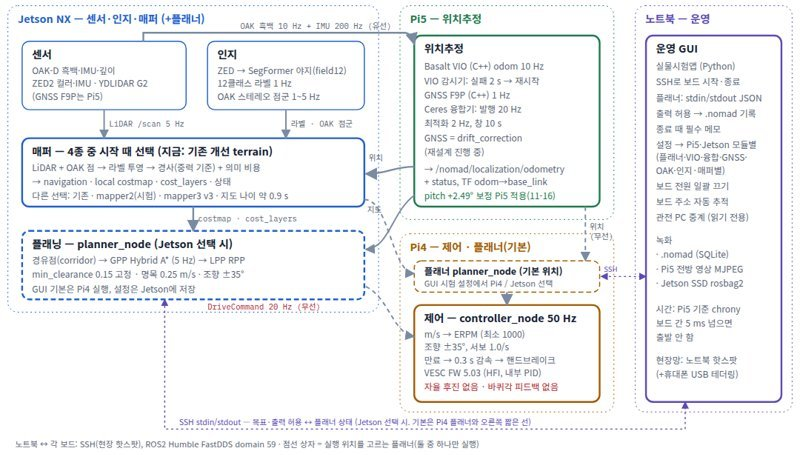
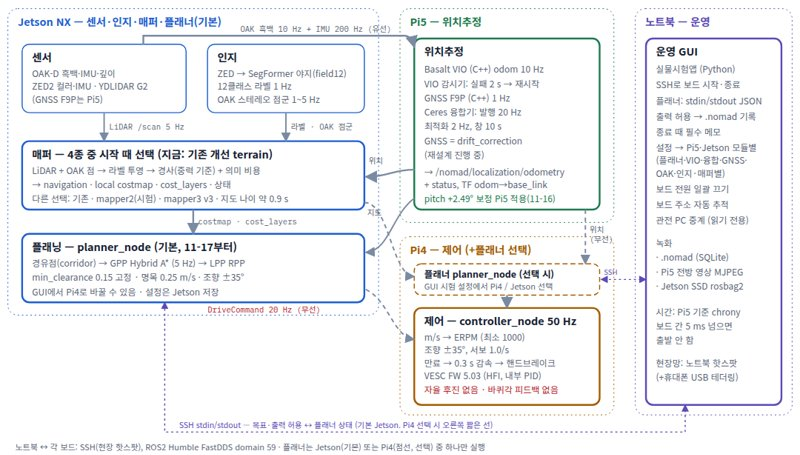
System: planner default location is Jetson from 11-17 (Pi4 selectable); roadmap step 2 done

Changed region(s): [[0.0, 0.0, 1.0, 1.0], [0.7812, 0.0308, 1.0, 0.4923]]

diff --git a/system/overview.html b/system/overview.html
@@ -83,7 +83,7 @@ footer{font-size:.8rem;color:var(--muted)}
 <div class="wrap"><p style="margin:0;font-size:.85rem"><a href="../index.html">홈</a> › <a href="index.html">시스템 구조</a> › 전체 구조</p>
 <header>
   <h1>NOMAD 전체 시스템 구조</h1>
-  <p class="sub">센서 → 위치추정(VIO + 융합기) → 인지 → 매퍼(4종 중 선택, 지금 기존 개선 terrain) → 플래닝(기본 Pi4, Jetson 선택 가능) → 제어(Pi4 VESC), 그리고 노트북 GUI·기록까지 한 장에 정리했다. 2026-11-17 기준, 작업 기록·공유폴더 코드·설정 사본에서 확인한 내용이며, 확인하지 못한 것은 <span class="chip todo">미확인</span>, 짐작은 <span class="chip keep">추정</span>으로 표시했다.</p>
+  <p class="sub">센서 → 위치추정(VIO + 융합기) → 인지 → 매퍼(4종 중 선택, 지금 기존 개선 terrain) → 플래닝(기본 Jetson 11-17부터, Pi4 선택 가능) → 제어(Pi4 VESC), 그리고 노트북 GUI·기록까지 한 장에 정리했다. 2026-11-17 기준, 작업 기록·공유폴더 코드·설정 사본에서 확인한 내용이며, 확인하지 못한 것은 <span class="chip todo">미확인</span>, 짐작은 <span class="chip keep">추정</span>으로 표시했다.</p>
   <div class="chips">
     <span class="chip drill"><span class="dot" style="background:var(--jet)"></span>Jetson</span>
     <span class="chip ok"><span class="dot" style="background:var(--pi5)"></span>Pi5</span>
@@ -104,11 +104,11 @@ footer{font-size:.8rem;color:var(--muted)}
     <marker id="arl" viewBox="0 0 10 10" refX="9" refY="5" markerWidth="7" markerHeight="7" orient="auto-start-reverse"><path d="M0,0 L10,5 L0,10 z" fill="var(--lap)"/></marker></defs>
     <!-- 보드 영역 -->
     <rect x="10" y="10" width="520" height="430" rx="14" fill="none" stroke="var(--jet)" stroke-dasharray="2 4"/>
-    <text x="24" y="34" fill="var(--jet)" font-weight="700" font-size="15">Jetson NX — 센서·인지·매퍼 (+플래너)</text>
+    <text x="24" y="34" fill="var(--jet)" font-weight="700" font-size="15">Jetson NX — 센서·인지·매퍼·플래너(기본)</text>
     <rect x="560" y="10" width="300" height="300" rx="14" fill="none" stroke="var(--pi5)" stroke-dasharray="2 4"/>
     <text x="574" y="34" fill="var(--pi5)" font-weight="700" font-size="15">Pi5 — 위치추정</text>
     <rect x="560" y="330" width="300" height="250" rx="14" fill="none" stroke="var(--pi4)" stroke-dasharray="2 4"/>
-    <text x="574" y="354" fill="var(--pi4)" font-weight="700" font-size="15">Pi4 — 제어 · 플래너(기본)</text>
+    <text x="574" y="354" fill="var(--pi4)" font-weight="700" font-size="15">Pi4 — 제어 (+플래너 선택)</text>
     <rect x="890" y="10" width="220" height="570" rx="14" fill="none" stroke="var(--lap)" stroke-dasharray="2 4"/>
     <text x="904" y="34" fill="var(--lap)" font-weight="700" font-size="15">노트북 — 운영</text>
 
@@ -119,12 +119,12 @@ footer{font-size:.8rem;color:var(--muted)}
       <text x="304" y="84" font-size="15" fill="var(--ink)" font-weight="700">인지</text><text x="304" y="106" font-size="12.5" fill="var(--muted)">ZED → SegFormer 야지(field12)</text><text x="304" y="124" font-size="12.5" fill="var(--muted)">12클래스 라벨 1 Hz</text><text x="304" y="142" font-size="12.5" fill="var(--muted)">OAK 스테레오 점군 1~5 Hz</text></g>
     <g class="blk" data-part="map" tabindex="0" role="button" aria-label="매퍼"><rect x="30" y="196" width="480" height="96" rx="10" fill="var(--sheet)" stroke="var(--jet)" stroke-width="2.5"/>
       <text x="44" y="220" font-size="15" fill="var(--ink)" font-weight="700">매퍼 — 4종 중 시작 때 선택 (지금: 기존 개선 terrain)</text><text x="44" y="242" font-size="12.5" fill="var(--muted)">LiDAR + OAK 점 → 라벨 투영 → 경사(중력 기준) + 의미 비용</text><text x="44" y="262" font-size="12.5" fill="var(--muted)">→ navigation · local costmap · cost_layers · 상태</text><text x="44" y="282" font-size="12.5" fill="var(--muted)">다른 선택: 기존 · mapper2(시험) · mapper3 v3 · 지도 나이 약 0.9 s</text></g>
-    <g class="blk" data-part="plan" tabindex="0" role="button" aria-label="플래닝"><rect x="30" y="326" width="480" height="96" rx="10" fill="var(--sheet)" stroke="var(--jet)" stroke-width="2.5" stroke-dasharray="7 4"/>
-      <text x="44" y="350" font-size="15" fill="var(--ink)" font-weight="700">플래닝 — planner_node (Jetson 선택 시)</text><text x="44" y="372" font-size="12.5" fill="var(--muted)">경유점(corridor) → GPP Hybrid A* (5 Hz) → LPP RPP</text><text x="44" y="392" font-size="12.5" fill="var(--muted)">min_clearance 0.15 고정 · 명목 0.25 m/s · 조향 ±35°</text><text x="44" y="412" font-size="12.5" fill="var(--muted)">GUI 기본은 Pi4 실행, 설정은 Jetson에 저장</text></g>
+    <g class="blk" data-part="plan" tabindex="0" role="button" aria-label="플래닝"><rect x="30" y="326" width="480" height="96" rx="10" fill="var(--sheet)" stroke="var(--jet)" stroke-width="2.5"/>
+      <text x="44" y="350" font-size="15" fill="var(--ink)" font-weight="700">플래닝 — planner_node (기본, 11-17부터)</text><text x="44" y="372" font-size="12.5" fill="var(--muted)">경유점(corridor) → GPP Hybrid A* (5 Hz) → LPP RPP</text><text x="44" y="392" font-size="12.5" fill="var(--muted)">min_clearance 0.15 고정 · 명목 0.25 m/s · 조향 ±35°</text><text x="44" y="412" font-size="12.5" fill="var(--muted)">GUI에서 Pi4로 바꿀 수 있음 · 설정은 Jetson 저장</text></g>
     <g class="blk" data-part="loc" tabindex="0" role="button" aria-label="위치추정"><rect x="580" y="52" width="260" height="240" rx="10" fill="var(--sheet)" stroke="var(--pi5)" stroke-width="2.5"/>
       <text x="594" y="76" font-size="15" fill="var(--ink)" font-weight="700">위치추정</text><text x="594" y="100" font-size="12.5" fill="var(--muted)">Basalt VIO (C++) odom 10 Hz</text><text x="594" y="120" font-size="12.5" fill="var(--muted)">VIO 감시기: 실패 2 s → 재시작</text><text x="594" y="140" font-size="12.5" fill="var(--muted)">GNSS F9P (C++) 1 Hz</text><text x="594" y="160" font-size="12.5" fill="var(--muted)">Ceres 융합기: 발행 20 Hz</text><text x="594" y="180" font-size="12.5" fill="var(--muted)">  최적화 2 Hz, 창 10 s</text><text x="594" y="200" font-size="12.5" fill="var(--muted)">GNSS = drift_correction</text><text x="594" y="220" font-size="12.5" fill="var(--muted)">  (재설계 진행 중)</text><text x="594" y="244" font-size="12.5" fill="var(--muted)">→ /nomad/localization/odometry</text><text x="594" y="262" font-size="12.5" fill="var(--muted)">   + status, TF odom→base_link</text><text x="594" y="282" font-size="12.5" fill="var(--ok)">pitch +2.49° 보정 Pi5 적용(11-16)</text></g>
     <g class="blk" data-part="plan" tabindex="0" role="button" aria-label="플래너 기본 위치"><rect x="580" y="368" width="260" height="44" rx="10" fill="var(--sheet)" stroke="var(--pi4)" stroke-width="1.5" stroke-dasharray="7 4"/>
-      <text x="594" y="388" font-size="13" fill="var(--ink)" font-weight="700">플래너 planner_node (기본 위치)</text><text x="594" y="404" font-size="11.5" fill="var(--muted)">GUI 시험 설정에서 Pi4 / Jetson 선택</text></g>
+      <text x="594" y="388" font-size="13" fill="var(--ink)" font-weight="700">플래너 planner_node (선택 시)</text><text x="594" y="404" font-size="11.5" fill="var(--muted)">GUI 시험 설정에서 Pi4 / Jetson 선택</text></g>
     <g class="blk" data-part="ctrl" tabindex="0" role="button" aria-label="제어"><rect x="580" y="430" width="260" height="136" rx="10" fill="var(--sheet)" stroke="var(--pi4)" stroke-width="2.5"/>
       <text x="594" y="454" font-size="15" fill="var(--ink)" font-weight="700">제어 — controller_node 50 Hz</text><text x="594" y="476" font-size="12.5" fill="var(--muted)">m/s → ERPM (최소 1000)</text><text x="594" y="494" font-size="12.5" fill="var(--muted)">조향 ±35°, 서보 1.0/s</text><text x="594" y="512" font-size="12.5" fill="var(--muted)">만료 → 0.3 s 감속 → 핸드브레이크</text><text x="594" y="530" font-size="12.5" fill="var(--muted)">VESC FW 5.03 (HFI, 내부 PID)</text><text x="594" y="550" font-size="12.5" fill="var(--bad)">자율 후진 없음 · 바퀴각 피드백 없음</text></g>
     <g class="blk" data-part="ops" tabindex="0" role="button" aria-label="운영"><rect x="905" y="52" width="190" height="514" rx="10" fill="var(--sheet)" stroke="var(--lap)" stroke-width="2.5"/>
@@ -143,8 +143,8 @@ footer{font-size:.8rem;color:var(--muted)}
     <path d="M510,282 C545,282 548,384 580,386" stroke="var(--wire)" stroke-width="2" stroke-dasharray="6 5" fill="none" marker-end="url(#ar)"/><text x="514" y="300" font-size="11" fill="var(--muted)" font-family="var(--f-mono)">지도</text>
     <path d="M710,412 L710,430" stroke="var(--wire)" stroke-width="2.5" fill="none" marker-end="url(#ar)"/>
     <path d="M905,390 L842,390" stroke="var(--lap)" stroke-width="1.5" stroke-dasharray="3 4" fill="none" marker-start="url(#arl)" marker-end="url(#arl)"/><text x="846" y="383" font-size="10" fill="var(--lap)">SSH</text>
-    <path d="M960,566 L960,604 L230,604 L230,422" stroke="var(--lap)" stroke-width="1.5" stroke-dasharray="3 4" fill="none" marker-start="url(#arl)" marker-end="url(#arl)"/><text x="250" y="598" font-size="11" fill="var(--lap)">SSH stdin/stdout — 목표·출력 허용 ↔ 플래너 상태 (Jetson 선택 시. 기본은 Pi4 플래너와 오른쪽 짧은 선)</text>
-    <text x="20" y="630" font-size="11.5" fill="var(--muted)">노트북 ↔ 각 보드: SSH(현장 핫스팟), ROS2 Humble FastDDS domain 59 · 점선 상자 = 실행 위치를 고르는 플래너(둘 중 하나만 실행)</text>
+    <path d="M960,566 L960,604 L230,604 L230,422" stroke="var(--lap)" stroke-width="1.5" stroke-dasharray="3 4" fill="none" marker-start="url(#arl)" marker-end="url(#arl)"/><text x="250" y="598" font-size="11" fill="var(--lap)">SSH stdin/stdout — 목표·출력 허용 ↔ 플래너 상태 (기본 Jetson. Pi4 선택 시 오른쪽 짧은 선)</text>
+    <text x="20" y="630" font-size="11.5" fill="var(--muted)">노트북 ↔ 각 보드: SSH(현장 핫스팟), ROS2 Humble FastDDS domain 59 · 플래너는 Jetson(기본) 또는 Pi4(점선, 선택) 중 하나만 실행</text>
   </svg>
   </div>
 </section>
@@ -153,10 +153,10 @@ footer{font-size:.8rem;color:var(--muted)}
 
 <section class="sheet">
   <h2>전체 흐름 한 단락</h2>
-  <p>Jetson의 OAK-D가 흑백 좌우 영상(10 Hz)과 IMU(200 Hz)를 100 Mbps 직결 유선으로 Pi5에 보낸다. Pi5에서는 Basalt VIO(odom 약 10 Hz)와 C++ GNSS(1 Hz)가 돌고, Ceres 융합기(발행 20 Hz, 최적화 2 Hz)가 GNSS를 <b>drift_correction</b> 방식으로 x·y·yaw에만 천천히 반영해 공용 위치를 낸다. Jetson에서는 ZED 영상 → SegFormer 야지 라벨(1 Hz), LiDAR(5 Hz), OAK 스테레오 점군(1~5 Hz)이 <b>개선 매퍼</b>로 모여 경사(중력 기준)와 의미 비용 지도를 만든다(지도 나이 약 0.9 s). <b>플래너</b>(GUI 시험 설정에서 실행 위치 선택: 기본 Pi4, Jetson 선택 가능)가 경유점 → Hybrid A* GPP(5 Hz) → RPP LPP로 경로를 짜 20 Hz DriveCommand를 Pi4 제어기에 보내고(Jetson에서 돌리면 무선으로), Pi4 제어기(50 Hz)가 ERPM(최소 1000)·서보(±35°)로 바꿔 VESC를 움직인다. 노트북 GUI는 SSH로 보드를 켜고 끄며, 받은 상태를 <code>.nomad</code>에 기록한다.</p>
+  <p>Jetson의 OAK-D가 흑백 좌우 영상(10 Hz)과 IMU(200 Hz)를 100 Mbps 직결 유선으로 Pi5에 보낸다. Pi5에서는 Basalt VIO(odom 약 10 Hz)와 C++ GNSS(1 Hz)가 돌고, Ceres 융합기(발행 20 Hz, 최적화 2 Hz)가 GNSS를 <b>drift_correction</b> 방식으로 x·y·yaw에만 천천히 반영해 공용 위치를 낸다. Jetson에서는 ZED 영상 → SegFormer 야지 라벨(1 Hz), LiDAR(5 Hz), OAK 스테레오 점군(1~5 Hz)이 <b>개선 매퍼</b>로 모여 경사(중력 기준)와 의미 비용 지도를 만든다(지도 나이 약 0.9 s). <b>플래너</b>(GUI 시험 설정에서 실행 위치 선택: 11-17부터 기본 Jetson, Pi4 선택 가능)가 경유점 → Hybrid A* GPP(5 Hz) → RPP LPP로 경로를 짜 20 Hz DriveCommand를 Pi4 제어기에 보내고(Jetson에서 돌리면 무선으로), Pi4 제어기(50 Hz)가 ERPM(최소 1000)·서보(±35°)로 바꿔 VESC를 움직인다. 노트북 GUI는 SSH로 보드를 켜고 끄며, 받은 상태를 <code>.nomad</code>에 기록한다.</p>
   <details><summary>이전 페이지와 무엇이 달라졌나</summary>
     <ul>
-      <li>플래너 위치: Pi4 고정 → <b>Pi4/Jetson 선택</b>(GUI 시험 설정, 기본 Pi4). 설정은 Jetson에 저장.</li>
+      <li>플래너 위치: Pi4 고정 → <b>Pi4/Jetson 선택</b>(GUI 시험 설정, 11-17부터 기본 Jetson. 11-16 야지까지는 기본 Pi4). 설정은 Jetson에 저장.</li>
       <li>매퍼: 기존 4프로세스·JSON 전달 → <b>개선 매퍼 단일 프로세스</b>, 경사 기준 진행방향 → 중력.</li>
       <li>위치: GNSS를 창 최적화에 넣던 방식 → <b>drift_correction</b>(1 m당 2 cm만 반영), VIO 감시기 자동 재시작.</li>
       <li>네트워크(11/16): 현장은 <b>노트북 핫스팟</b>에 세 보드가 붙고, 휴대폰 USB 테더링으로 인터넷도 같이 씀(확인).</li>
@@ -170,11 +170,11 @@ footer{font-size:.8rem;color:var(--muted)}
   <h2>앞으로의 목표 (로드맵)</h2>
   <table><tr><th>단계</th><th>내용</th><th>상태</th></tr>
   <tr><td>1</td><td>시험 초기화 버튼</td><td><span class="chip todo">계획(미구현)</span> · 지금은 VIO 재실행·지자계 방향 초기화·제어기 복구만</td></tr>
-  <tr><td>2</td><td>플래너 Jetson 실행 + GUI 파트별 설정</td><td>Jetson 실행 가능·GUI 설정 완료, <b>기본 전환은 미완</b>(기본 Pi4)</td></tr>
+  <tr><td>2</td><td>플래너 Jetson 실행 + GUI 파트별 설정</td><td><span class="chip ok">완료</span> (11-17 기본값 Jetson, Pi4 선택 가능)</td></tr>
   <tr><td>3</td><td>VIO(Pi5) 설정·초기화 GUI</td><td><span class="chip ok">11-16 모듈 세부 설정으로 완료</span></td></tr>
   <tr><td>다음</td><td>VIO + GNSS 융합기 재설계</td><td>진행 중 (시험판 빌드 중)</td></tr>
   <tr><td><b>최종</b></td><td>로직 개발이 끝나면 <b>Pi4를 빼고 제어기를 Jetson으로</b> 옮겨 보드를 <b>Jetson + Pi5 두 대</b>로 줄이기</td><td>계획</td></tr></table>
-  <p style="color:var(--muted)">지금: Pi5 = VIO·융합·GNSS / Jetson = 센서·인지·매퍼(+플래너 선택 시) / Pi4 = 제어기(→ VESC) + 플래너(기본) / 노트북 = GUI. 최종: Pi5 + Jetson(제어기 포함).</p>
+  <p style="color:var(--muted)">지금: Pi5 = VIO·융합·GNSS / Jetson = 센서·인지·매퍼·플래너(기본) / Pi4 = 제어기(→ VESC), 플래너 선택 가능 / 노트북 = GUI. 최종: Pi5 + Jetson(제어기 포함).</p>
 </section>
 <section class="sheet" id="gui1116">
   <h2>11/16 GUI·보드 개선</h2>
@@ -215,7 +215,7 @@ map:{t:'매퍼 — 개선 매퍼 (Jetson, 사용 중)', c:'var(--jet)', one:'기
  extra:'<h3>다른 매퍼와 비교</h3><table><tr><th>매퍼 (Jetson, 4종)</th><th>구조</th><th>상태</th></tr><tr><td><b>기존 매퍼 개선 (terrain)</b></td><td>단일 프로세스, 중력 경사, 지도 창·고정 옵션</td><td><span class="chip ok">사용 중</span> · 11/16 GUI에 클래스 경계 px·초기 안전영역·경사 계수 k(k=4가 기존 동작) 설정 추가 — 실차 미확인</td></tr><tr><td>기존 매퍼</td><td>4프로세스 + JSON, 진행방향 경사</td><td>비교용 (11-13 ㄹ자 성공 시험에 사용)</td></tr><tr><td>새 매퍼 (mapper2)</td><td>높이 지도 grid_map, 턱 0.05 m 막힘, 빔 지우기</td><td>시험용</td></tr><tr><td>새 매퍼3 v3 (final_v3)</td><td>재생 정확도 최고(판 MAE 1.58°)</td><td>실차 3 Hz 점군에서 CPU 포화로 보류 · 11/16 GUI 경계 px·초기 안전영역 설정 추가 — 실차 미확인</td></tr></table>',
  tl:[['11-13','단일 프로세스·구조체 전달, 20 m 창, 중력각, Jetson 빌드·GUI 연결'],['11-14','keep_slope_on_failure, cost_area, max_map_cells 추가(기본 꺼짐), 골든 bag 16조합'],['11-15 15:36','"행렬 최고" 옵션: 시작 평지 고정 끔, 라벨 누적 끔'],['11-15 20:10','boundary_margin 6 px'],['11-15 실차','복도 30 m 시나리오, 20:07 시험은 마지막 막힌 경로 하나 빼고 도착']],
  iss:[['bad','시작 평지 고정 끄기 옵션이 출력에 효과 없음(cost.cpp가 시작 영역을 0°로 덮음) — 수정 보류'],['bad','경사 각도 부족: 실측 12.2° 판을 7~9°로, 바닥을 4~7°로 읽음'],['keep','10 m 창에서 목표가 지도 밖 → 늦게 회전(근본은 플래너 경로 유지 방식으로 봄)'],['todo','지금 Jetson에 켜진 terrain.json 정확한 값 미확인'],['keep','기존 매퍼의 관리자(해시 검증·runtime.lock·시작 마감) 안전장치가 없음']]},
-plan:{t:'플래닝 — planner_node (기본 Pi4, Jetson 선택 가능)', c:'var(--jet)', one:'GUI 시험 설정의 \'플래너 위치\'에서 Pi4(기본)와 Jetson 중 고른다. Jetson판은 코드를 그대로 3패키지로 나눈 것이고 설정은 Jetson ~/nomad_settings/planner에 저장된다. 경유점을 고르고 Hybrid A*로 경로를 짠 뒤 RPP로 따라간다. Jetson에서 돌리면 Pi4는 출력만 한다. 실제 시험에서 어디서 돌았는지는 기록마다 확인 필요.',
+plan:{t:'플래닝 — planner_node (기본 Jetson, Pi4 선택 가능)', c:'var(--jet)', one:'GUI 시험 설정의 \'플래너 위치\'에서 Jetson(11-17부터 기본)과 Pi4 중 고른다. 11-16 야지까지는 기본이 Pi4였다. Jetson판은 코드를 그대로 3패키지로 나눈 것이고 설정은 Jetson ~/nomad_settings/planner에 저장된다. 경유점을 고르고 Hybrid A*로 경로를 짠 뒤 RPP로 따라간다. Jetson에서 돌리면 Pi4는 출력만 한다. 실제 시험에서 어디서 돌았는지는 기록마다 확인 필요.',
  flow:[['입력 검사','전역 지도 3 s·지역 2 s 넘게 오래되면 STOP, 0.35 m 안이면 ARRIVED'],['비용 합성','장애물·여유·경사 5·지형 5·미관측 가산, min_clearance 0.15 m 하드 금지'],['경유점 선택','waypoint_radius 안의 관측된 빈 칸 후보 최대 16개, 기한 0.98 s'],['GPP','Hybrid A* 후보당 0.16 s, 차체 1.0×0.65 m 휩쓸림 검사'],['LPP (RPP)','관측된 앞부분 추종, lookahead 0.8 m, 명목 0.25 m/s, 미관측 칸 0.10 m/s'],['출력','DriveCommand 20 Hz, valid_for 0.15 s']],
  kv:[['패키지','planning_core 239줄 · policy 592줄 · cpp 508줄, 테스트 11/11'],['실행','GUI가 SSH로 jetson_planner.sh --stdio, 목표·취소는 stdin JSON, 화면은 stdout JSON'],['corridor.min_clearance','0.15 고정(사용자 결정, 11-15 0.275 시험 뒤 되돌림)'],['waypoint_radius','마지막 기록 2.0 (11-15 20:36, "엄청 잘 돌았어")'],['terrain_weight','Jetson 5.0 (Pi4 원본 0.5)'],['설정 GUI','64개 7탭, Jetson ~/nomad_settings/planner에 저장·백업, 동시 수정 거부'],['주기','planning 5 Hz, command 20 Hz, GPP 예산 0.5 s/50000회']],
  tl:[['11-12','Jetson 복사·빌드(4분 16초), 테스트 11/11, Pi4보다 17~26% 느림(단일 코어)'],['11-13','3패키지 분할(코드 무변경), 설정 64개 GUI, 프리셋, 소수 4자리 저장 버그 수정'],['11-15','min_clearance 0.15 고정, waypoint_radius 1.0 → 2.0, observation_turn_weight 30 → 20']],
@@ -227,7 +227,7 @@ ctrl:{t:'제어 — Pi4 VESC', c:'var(--pi4)', one:'DriveCommand를 검사해 ER
  iss:[['bad','핸드브레이크 중 ERPM을 0으로 보고 → 미끄러져도 정지로 보임. VIO로 미끄러짐 감지 기능 없음(11/12 야지에서 최대 3 m 밀림 확인)'],['bad','경사 정차 보장 안 됨: 짐 실으면 약 14°, 그 밖 17~20°'],['bad','제어기·드라이버 종료 시 VESC가 300 ms 뒤 0 A로 풀려 경사에서 굴러감'],['keep','플래너가 1000 ERPM 하한을 모름 → LPP 감속 지시가 무시됨'],['todo','Pi4 RTC 없음(11-15 약 5.7일 늦게 켜짐) → 명령이 미래 시각으로 보여 거부될 수 있음'],['keep','제어기를 Jetson으로 옮기는 계획: 순서만 정해짐, 구현 기록 없음']]},
 ops:{t:'운영 — 노트북 GUI·기록·예외 처리', c:'var(--lap)', one:'실물시험앱이 SSH로 보드를 순서대로 켜고, 출력 허용 순간부터 .nomad에 기록한다. 보드·링크가 끊기면 각 모듈의 만료 시간으로 차가 선다.',
  flow:[['시작','사전 점검 → 이전 모듈 종료 → 시각 동기화(Pi5 기준, 5 ms) → LAN 확인 → Wi-Fi 절전 끄기(11-16) → 경사·매퍼 설정 저장 → 센서(+선택 매퍼) → VIO·융합 → 기동 확인 → 인지 모델'],['플래너','jetson_planner.sh --stdio + pi4_output_only.sh, 한쪽 끝나면 둘 다 종료'],['출력 허용','.nomad 기록 준비 성공해야 허용, 재계획·목표 변경에도 유지'],['종료','종료 먼저 시작 → 필수 메모(시험 이름) → 파일 이름 = 시험이름.nomad'],['재생','파일 입력만, SSH·명령 생성 없음']],
- kv:[['기록','.nomad(SQLite, GUI가 받은 것만), Pi5 전방 MJPEG 1분 단위 10 Hz, Jetson SSD rosbag2 24토픽'],['설정 저장','플래너·모듈 세부(VIO·융합·GNSS·OAK·인지)는 Pi5/Jetson ~/nomad_settings/<모듈>/, 매퍼별은 각 매퍼 설정 위치. 저장 전 백업, 다른 노트북이 먼저 바꿨으면 거부'],['주소 추적','MAC+호스트키 → mDNS → Pi5 유선 경유 순으로 다시 찾음'],['SSH','ControlMaster 재사용으로 호출당 1.81 → 0.10 s'],['GUI 기본값','mapper legacy·placement pi4 — 지금 쓰는 terrain·jetson은 저장된 선택값']],
+ kv:[['기록','.nomad(SQLite, GUI가 받은 것만), Pi5 전방 MJPEG 1분 단위 10 Hz, Jetson SSD rosbag2 24토픽'],['설정 저장','플래너·모듈 세부(VIO·융합·GNSS·OAK·인지)는 Pi5/Jetson ~/nomad_settings/<모듈>/, 매퍼별은 각 매퍼 설정 위치. 저장 전 백업, 다른 노트북이 먼저 바꿨으면 거부'],['주소 추적','MAC+호스트키 → mDNS → Pi5 유선 경유 순으로 다시 찾음'],['SSH','ControlMaster 재사용으로 호출당 1.81 → 0.10 s'],['GUI 기본값','플래너 위치 jetson(11-17부터, 이전 pi4) · 매퍼 기본 legacy — 지금 쓰는 terrain은 저장된 선택값']],
  extra:'<h3>끊길 때 차가 서는 시간</h3><table><tr><th>끊긴 곳</th><th>만료</th><th>결과</th></tr><tr><td>Jetson OAK</td><td>0.5 s 뒤 위치 무효</td><td>정지</td></tr><tr><td>융합기</td><td>0.3 s 뒤 위치 상태 만료</td><td>정지</td></tr><tr><td>매퍼</td><td>1.0 s 뒤 인지 상태 만료</td><td>정지</td></tr><tr><td>플래너 → Pi4</td><td>valid_for 0.15 s 또는 받은 뒤 0.35 s</td><td>0.3 s 감속 정지</td></tr><tr><td>노트북</td><td>SSH 종료(stdin EOF)</td><td>플래너 해제, 보드 쪽 감지 시간 미확인</td></tr></table>',
  tl:[['11-11','전방 녹화 컬러, 녹화 목록·메모·삭제, 보드 주소 자동 추적, VIO 감시기'],['11-12','플래너 위치 Pi4/Jetson 선택, 공유폴더 자동 연결, 보드 시계 자동 보정'],['11-13','출력 허용 때 자동 기록, 종료 필수 메모, 설정 Jetson 저장·프리셋, 개선 매퍼 선택지'],['11-15','조종·녹화 창(키보드 조종, 후진, 센서 bag+GPS), stop_trial SSD 경로 수정, GUI 검사 505 OK']],
  iss:[['bad','학교 Wi-Fi에서 명령 지연·끊김(평균 153 ms, 최대 1.2 s) — 핫스팟 권장'],['bad','녹화가 켠 ZED 컨테이너가 남으면 다음 시험 시작 거부'],['todo','chrony makestep 1 -1 보드 반영 미확인(설치 다시 눌러야 적용)'],['keep','F14 부분 해결: VIO만 자동 재시작, 융합·지도·OAK·GNSS는 자동 재시작 없음'],['keep','.nomad는 GUI가 받은 것만 저장(원본 점군·수치 비용 배열 없음)']]}

diff --git a/system/index.html b/system/index.html
@@ -54,4 +54,4 @@ img.full{width:100%;border-radius:10px;border:1px solid var(--line)}
 .two{display:grid;grid-template-columns:1fr 1fr;gap:14px}@media(max-width:760px){.two{grid-template-columns:1fr}}
 .pager{display:flex;justify-content:space-between;gap:10px;margin-top:24px;font-size:.9rem}
 footer{max-width:1100px;margin:0 auto;padding:0 16px 40px;font-size:.8rem;color:var(--muted)}
-.hide{display:none!important}</style></head><body><header class="top"><div class="in"><a class="brand" href="../index.html">NOMAD</a><nav><a href="../field/index.html" class="">실물 실험</a><a href="../maps/index.html" class="">3D 맵</a><a href="../system/index.html" class="on">시스템 구조</a><a href="../scenarios/index.html" class="">시뮬레이션</a><a href="../archive/index.html" class="">보관</a></nav></div></header><main><div class=crumb><a href="../index.html">홈</a> › 시스템 구조</div><h1>시스템 구조</h1><p class="lead">로봇 소프트웨어가 보드별로 어떻게 나뉘고, 데이터가 어떻게 흐르는지.</p><div class="grid"><a class="card" href="overview.html" ><img src="overview_thumb.jpg" alt="" loading="lazy"><div class="b"><b>전체 시스템 구조 (11/17 갱신)</b><span class="d">센서 → 위치(VIO + 융합기) → 인지 → 매퍼 4종 → 플래닝(기본 Pi4, Jetson 선택) → 제어(Pi4) → 운영. 블록을 누르면 파트별 처리 순서·확정값·최근 변경·문제. 맨 아래 로드맵·11/16 개선</span><div class="tags"><span class="t new">최신</span><span class="t ">전체</span></div></div></a><a class="card" href="overview.html#gui1116" ><div class="b"><b>GUI·보드 개선 (11/16)</b><span class="d">매퍼별 설정(경계 px·초기 안전영역·경사 k), 모듈 세부 설정(VIO·융합·GNSS·OAK·인지), 보드 전원 일괄 끄기(실사용 성공), 종료 정리·목표 x·y 입력·Wi-Fi 절전 끄기, 주행기록 올리기 수정(.part 24개 복구), VIO pitch +2.49° 보정. 표시 없는 항목 일부는 실차 미확인</span><div class="tags"><span class="t new">최신</span><span class="t ">GUI</span><span class="t ">보드</span></div></div></a><a class="card" href="../experiments/20261111_board_code_review/index.html" ><div class="b"><b>보드 코드 읽기 — 데이터 흐름과 예외 처리 (11/11~13)</b><span class="d">보드별 모듈·토픽, 끊김·재시작 처리 F1~F20</span><div class="tags"><span class="t old">이전 판</span><span class="t ">예외 처리</span></div></div></a><a class="card" href="mapper_20261113.html" ><div class="b"><b>새 매퍼 구조 탐색 (11/13)</b><span class="d">새 매퍼(mapper2) 설계와 VIO·플래너 레벨. 지금은 개선 매퍼를 씀</span><div class="tags"><span class="t old">이전 판</span><span class="t ">매퍼</span></div></div></a><a class="card" href="../experiments/slope/index.html" ><div class="b"><b>경사 지도 비교 (10/28)</b><span class="d">경사 추정 개선 비교</span><div class="tags"><span class="t old">이전</span><span class="t ">매퍼</span></div></div></a></div><h2 id="roadmap">앞으로의 목표</h2><p class="lead">지금: <b>Pi5</b> VIO·VIO+GNSS 융합·GNSS 수신 / <b>Jetson</b> OAK·ZED·LiDAR 센서, 의미분할 인지, 매퍼 4종(기존·기존 개선 terrain·새 매퍼 mapper2 시험용·새 매퍼3 v3) / <b>Pi4</b> 제어기(RPM·서보 → VESC) / <b>플래너</b>(GPP Hybrid A* + LPP)는 GUI에서 실행 위치를 고름: 기본 Pi4, Jetson 선택 가능, 설정은 Jetson 저장 / <b>노트북 GUI</b> 기동·종료·상태·목표·출력 허용, 기록·다시보기, 관전 중계. 현장망은 노트북 핫스팟(휴대폰 USB 테더링으로 인터넷 함께).</p><table><tr><th>단계</th><th>내용</th><th>상태</th></tr><tr><td>1</td><td>시험 초기화 버튼</td><td>계획(미구현) — 지금은 VIO 재실행·지자계 방향 초기화·제어기 복구만</td></tr><tr><td>2</td><td>플래너 Jetson 실행 + GUI 파트별 설정</td><td>Jetson 실행 가능·GUI 설정 완료, 기본 전환 미완(기본 Pi4)</td></tr><tr><td>3</td><td>VIO(Pi5) 설정·초기화 GUI</td><td>11-16 모듈 세부 설정으로 완료</td></tr><tr><td>다음</td><td>VIO+GNSS 융합기 재설계</td><td>진행 중(시험판 빌드 중)</td></tr><tr><td><b>최종</b></td><td>로직 개발이 끝나면 <b>Pi4를 빼고 제어기를 Jetson으로</b> → 보드를 Jetson + Pi5 두 대로</td><td>계획</td></tr></table></main><footer>NOMAD 야지 자율주행 로봇 · LIG 프로젝트 · 정리 2026-11-17</footer></body></html>
+.hide{display:none!important}</style></head><body><header class="top"><div class="in"><a class="brand" href="../index.html">NOMAD</a><nav><a href="../field/index.html" class="">실물 실험</a><a href="../maps/index.html" class="">3D 맵</a><a href="../system/index.html" class="on">시스템 구조</a><a href="../scenarios/index.html" class="">시뮬레이션</a><a href="../archive/index.html" class="">보관</a></nav></div></header><main><div class=crumb><a href="../index.html">홈</a> › 시스템 구조</div><h1>시스템 구조</h1><p class="lead">로봇 소프트웨어가 보드별로 어떻게 나뉘고, 데이터가 어떻게 흐르는지.</p><div class="grid"><a class="card" href="overview.html" ><img src="overview_thumb.jpg" alt="" loading="lazy"><div class="b"><b>전체 시스템 구조 (11/17 갱신)</b><span class="d">센서 → 위치(VIO + 융합기) → 인지 → 매퍼 4종 → 플래닝(기본 Jetson, Pi4 선택) → 제어(Pi4) → 운영. 블록을 누르면 파트별 처리 순서·확정값·최근 변경·문제. 맨 아래 로드맵·11/16 개선</span><div class="tags"><span class="t new">최신</span><span class="t ">전체</span></div></div></a><a class="card" href="overview.html#gui1116" ><div class="b"><b>GUI·보드 개선 (11/16)</b><span class="d">매퍼별 설정(경계 px·초기 안전영역·경사 k), 모듈 세부 설정(VIO·융합·GNSS·OAK·인지), 보드 전원 일괄 끄기(실사용 성공), 종료 정리·목표 x·y 입력·Wi-Fi 절전 끄기, 주행기록 올리기 수정(.part 24개 복구), VIO pitch +2.49° 보정. 표시 없는 항목 일부는 실차 미확인</span><div class="tags"><span class="t new">최신</span><span class="t ">GUI</span><span class="t ">보드</span></div></div></a><a class="card" href="../experiments/20261111_board_code_review/index.html" ><div class="b"><b>보드 코드 읽기 — 데이터 흐름과 예외 처리 (11/11~13)</b><span class="d">보드별 모듈·토픽, 끊김·재시작 처리 F1~F20</span><div class="tags"><span class="t old">이전 판</span><span class="t ">예외 처리</span></div></div></a><a class="card" href="mapper_20261113.html" ><div class="b"><b>새 매퍼 구조 탐색 (11/13)</b><span class="d">새 매퍼(mapper2) 설계와 VIO·플래너 레벨. 지금은 개선 매퍼를 씀</span><div class="tags"><span class="t old">이전 판</span><span class="t ">매퍼</span></div></div></a><a class="card" href="../experiments/slope/index.html" ><div class="b"><b>경사 지도 비교 (10/28)</b><span class="d">경사 추정 개선 비교</span><div class="tags"><span class="t old">이전</span><span class="t ">매퍼</span></div></div></a></div><h2 id="roadmap">앞으로의 목표</h2><p class="lead">지금: <b>Pi5</b> VIO·VIO+GNSS 융합·GNSS 수신 / <b>Jetson</b> OAK·ZED·LiDAR 센서, 의미분할 인지, 매퍼 4종(기존·기존 개선 terrain·새 매퍼 mapper2 시험용·새 매퍼3 v3) / <b>Pi4</b> 제어기(RPM·서보 → VESC) / <b>플래너</b>(GPP Hybrid A* + LPP)는 Jetson(기본, 11-17부터), Pi4 선택 가능, 설정은 Jetson 저장 / <b>노트북 GUI</b> 기동·종료·상태·목표·출력 허용, 기록·다시보기, 관전 중계. 현장망은 노트북 핫스팟(휴대폰 USB 테더링으로 인터넷 함께).</p><table><tr><th>단계</th><th>내용</th><th>상태</th></tr><tr><td>1</td><td>시험 초기화 버튼</td><td>계획(미구현) — 지금은 VIO 재실행·지자계 방향 초기화·제어기 복구만</td></tr><tr><td>2</td><td>플래너 Jetson 실행 + GUI 파트별 설정</td><td>완료(11-17 기본값 Jetson)</td></tr><tr><td>3</td><td>VIO(Pi5) 설정·초기화 GUI</td><td>11-16 모듈 세부 설정으로 완료</td></tr><tr><td>다음</td><td>VIO+GNSS 융합기 재설계</td><td>진행 중(시험판 빌드 중)</td></tr><tr><td><b>최종</b></td><td>로직 개발이 끝나면 <b>Pi4를 빼고 제어기를 Jetson으로</b> → 보드를 Jetson + Pi5 두 대로</td><td>계획</td></tr></table></main><footer>NOMAD 야지 자율주행 로봇 · LIG 프로젝트 · 정리 2026-11-17</footer></body></html>

diff --git a/index.html b/index.html
@@ -54,4 +54,4 @@ img.full{width:100%;border-radius:10px;border:1px solid var(--line)}
 .two{display:grid;grid-template-columns:1fr 1fr;gap:14px}@media(max-width:760px){.two{grid-template-columns:1fr}}
 .pager{display:flex;justify-content:space-between;gap:10px;margin-top:24px;font-size:.9rem}
 footer{max-width:1100px;margin:0 auto;padding:0 16px 40px;font-size:.8rem;color:var(--muted)}
-.hide{display:none!important}</style></head><body><header class="top"><div class="in"><a class="brand" href="index.html">NOMAD</a><nav><a href="field/index.html" class="">실물 실험</a><a href="maps/index.html" class="">3D 맵</a><a href="system/index.html" class="">시스템 구조</a><a href="scenarios/index.html" class="">시뮬레이션</a><a href="archive/index.html" class="">보관</a></nav></div></header><main><h1>NOMAD — 야지 자율주행 로봇 개발 기록</h1><p class="lead">LIG 프로젝트 NOMAD 팀. 실제 로봇 시험 결과, 시스템 구조, 시뮬레이션 시나리오를 파트별로 정리했다. 최신 결과는 <b>실물 실험</b> 맨 위에 있다.</p><div class="grid"><a class="card big" href="field/index.html" ><img src="experiments/20261112_yarji_drives/thumbs/132943.jpg" alt="" loading="lazy"><div class="b"><b>① 실물 실험</b><span class="d">최신: 11/15 강의실 옆 복도 시나리오(3D 재현) · 11/12 야지 27회(장소별 3D 재현, 밀림 표시) · 10월 센서·지도 시험</span><div class="tags"><span class="t new">최신 포함</span><span class="t ">야지 장소별</span><span class="t ">실내 시나리오별</span></div></div></a><a class="card" href="maps/index.html" ><img src="field/indoor/thumbs/184433.jpg" alt="" loading="lazy"><div class="b"><b>3D 맵 모음</b><span class="d">휴대폰으로 찍어 만든 장소별 3D 맵(11/12 야지 맵1~7, 11/15 강의실 옆 복도)을 돌려 보고, 맵에 맞춘 주행 궤적을 겹쳐 본다</span><div class="tags"><span class="t new">3D</span><span class="t ">맵 선택</span></div></div></a><a class="card" href="system/index.html" ><img src="system/overview_thumb.jpg" alt="" loading="lazy"><div class="b"><b>② 시스템 구조</b><span class="d">센서·위치·인지·매퍼 4종·플래닝(기본 Pi4/Jetson 선택)·제어·운영 전체 구조, 로드맵, 11/16 GUI·보드 개선, 이전 판 데이터 흐름</span><div class="tags"><span class="t new">11/17 갱신</span></div></div></a><a class="card" href="scenarios/index.html" ><div class="b"><b>③ 시뮬레이션 시나리오</b><span class="d">GNSS 소실·위치 복구, 정적·동적 장애물, 거친 노면, 주행가능성, Hybrid A*·RPP</span><div class="tags"><span class="t ">HTML 시뮬레이션</span></div></div></a><a class="card" href="archive/index.html" ><div class="b"><b>④ 보관</b><span class="d">초기 아이디어(1~5안), 이전 버전, 이전 첫 화면(archive/old_home_20261116.html)</span><div class="tags"><span class="t old">이전 자료</span></div></div></a></div></main><footer>NOMAD 야지 자율주행 로봇 · LIG 프로젝트 · 정리 2026-11-17</footer></body></html>
+.hide{display:none!important}</style></head><body><header class="top"><div class="in"><a class="brand" href="index.html">NOMAD</a><nav><a href="field/index.html" class="">실물 실험</a><a href="maps/index.html" class="">3D 맵</a><a href="system/index.html" class="">시스템 구조</a><a href="scenarios/index.html" class="">시뮬레이션</a><a href="archive/index.html" class="">보관</a></nav></div></header><main><h1>NOMAD — 야지 자율주행 로봇 개발 기록</h1><p class="lead">LIG 프로젝트 NOMAD 팀. 실제 로봇 시험 결과, 시스템 구조, 시뮬레이션 시나리오를 파트별로 정리했다. 최신 결과는 <b>실물 실험</b> 맨 위에 있다.</p><div class="grid"><a class="card big" href="field/index.html" ><img src="experiments/20261112_yarji_drives/thumbs/132943.jpg" alt="" loading="lazy"><div class="b"><b>① 실물 실험</b><span class="d">최신: 11/15 강의실 옆 복도 시나리오(3D 재현) · 11/12 야지 27회(장소별 3D 재현, 밀림 표시) · 10월 센서·지도 시험</span><div class="tags"><span class="t new">최신 포함</span><span class="t ">야지 장소별</span><span class="t ">실내 시나리오별</span></div></div></a><a class="card" href="maps/index.html" ><img src="field/indoor/thumbs/184433.jpg" alt="" loading="lazy"><div class="b"><b>3D 맵 모음</b><span class="d">휴대폰으로 찍어 만든 장소별 3D 맵(11/12 야지 맵1~7, 11/15 강의실 옆 복도)을 돌려 보고, 맵에 맞춘 주행 궤적을 겹쳐 본다</span><div class="tags"><span class="t new">3D</span><span class="t ">맵 선택</span></div></div></a><a class="card" href="system/index.html" ><img src="system/overview_thumb.jpg" alt="" loading="lazy"><div class="b"><b>② 시스템 구조</b><span class="d">센서·위치·인지·매퍼 4종·플래닝(기본 Jetson, Pi4 선택)·제어·운영 전체 구조, 로드맵, 11/16 GUI·보드 개선, 이전 판 데이터 흐름</span><div class="tags"><span class="t new">11/17 갱신</span></div></div></a><a class="card" href="scenarios/index.html" ><div class="b"><b>③ 시뮬레이션 시나리오</b><span class="d">GNSS 소실·위치 복구, 정적·동적 장애물, 거친 노면, 주행가능성, Hybrid A*·RPP</span><div class="tags"><span class="t ">HTML 시뮬레이션</span></div></div></a><a class="card" href="archive/index.html" ><div class="b"><b>④ 보관</b><span class="d">초기 아이디어(1~5안), 이전 버전, 이전 첫 화면(archive/old_home_20261116.html)</span><div class="tags"><span class="t old">이전 자료</span></div></div></a></div></main><footer>NOMAD 야지 자율주행 로봇 · LIG 프로젝트 · 정리 2026-11-17</footer></body></html>

diff --git a/system/mapper_20261113.html b/system/mapper_20261113.html
@@ -100,7 +100,7 @@ dialog::backdrop{background:rgba(10,16,28,.55)}
 
 <div class="wrap">
 <div style="margin:0 0 12px;padding:12px 16px;border:2px solid #f2b705;border-radius:10px;background:rgba(242,183,5,.12);color:inherit;font:14px/1.6 system-ui,sans-serif"><b>이전 판 (11-13 논의 기준)</b> — 새 매퍼(mapper2) 설계 탐색 페이지예요. 지금 구조는 <a href="overview.html">전체 시스템 구조(11-17)</a>를 보세요.<br>
-<b>지금은 이렇게:</b> 매퍼는 4종 중 시작 때 선택 — 기존 / <b>기존 개선(terrain, 지금 사용)</b> / 새 매퍼 mapper2(시험용) / 새 매퍼3 v3. 11-16 GUI에 매퍼별 설정(클래스 경계 px·초기 안전영역·경사 계수 k, k=4가 기존 동작) 추가 · 플래너는 기본 Pi4, Jetson 선택 가능(설정은 Jetson 저장) · GPP 여유는 이 페이지의 추천값이 아니라 중간값 적용(min_clearance 0.15 고정) · Pi5 VIO pitch +2.49° 보정 적용(11-16), 융합기는 재설계 진행 중.</div>
+<b>지금은 이렇게:</b> 매퍼는 4종 중 시작 때 선택 — 기존 / <b>기존 개선(terrain, 지금 사용)</b> / 새 매퍼 mapper2(시험용) / 새 매퍼3 v3. 11-16 GUI에 매퍼별 설정(클래스 경계 px·초기 안전영역·경사 계수 k, k=4가 기존 동작) 추가 · 플래너는 11-17부터 기본 Jetson, Pi4 선택 가능(설정은 Jetson 저장) · GPP 여유는 이 페이지의 추천값이 아니라 중간값 적용(min_clearance 0.15 고정) · Pi5 VIO pitch +2.49° 보정 적용(11-16), 융합기는 재설계 진행 중.</div>
   <header>
     <span class="label">NOMAD · Jetson 매퍼 재설계 · 2026-11-13 논의 결과 · VIO·플래너 현황 추가 (11-13)</span>
     <h1>NOMAD 새 매퍼 구조</h1>

diff --git a/experiments/20261111_board_code_review/index.html b/experiments/20261111_board_code_review/index.html
@@ -103,7 +103,7 @@ th{font-size:12px;color:var(--muted);font-weight:600;position:sticky;top:0;backg
 </head>
 <body>
 <div style="margin:12px auto;max-width:1100px;padding:12px 16px;border:2px solid #f2b705;border-radius:10px;background:rgba(242,183,5,.12);color:inherit;font:14px/1.6 system-ui,sans-serif"><b>이전 판 (11-11~11-13 기준)</b> — 이 페이지는 그때의 코드 읽기 결과예요. 지금 구조는 <a href="../../system/overview.html">전체 시스템 구조(11-17)</a>를 보세요.<br>
-바뀐 점: 플래너는 GUI에서 실행 위치를 고름(기본 Pi4, Jetson 선택 가능) · 매퍼 4종 중 시작 때 선택(지금 기존 개선 terrain) · GNSS 수신기는 C++판, VIO가 끊겨도 GNSS로 대신하지 않음(fallback 끔) · Pi5 VIO pitch +2.49° 보정 적용(11-16) · 모듈 세부 설정(VIO·융합·GNSS·OAK·인지)·매퍼별 설정 추가(11-16).</div>
+바뀐 점: 플래너는 GUI에서 실행 위치를 고름(11-17부터 기본 Jetson, Pi4 선택 가능) · 매퍼 4종 중 시작 때 선택(지금 기존 개선 terrain) · GNSS 수신기는 C++판, VIO가 끊겨도 GNSS로 대신하지 않음(fallback 끔) · Pi5 VIO pitch +2.49° 보정 적용(11-16) · 모듈 세부 설정(VIO·융합·GNSS·OAK·인지)·매퍼별 설정 추가(11-16).</div>
 
 <header>
   <div class="sub"><a href="../" style="color:var(--accent)">← 실험 자료 목록</a></div>
